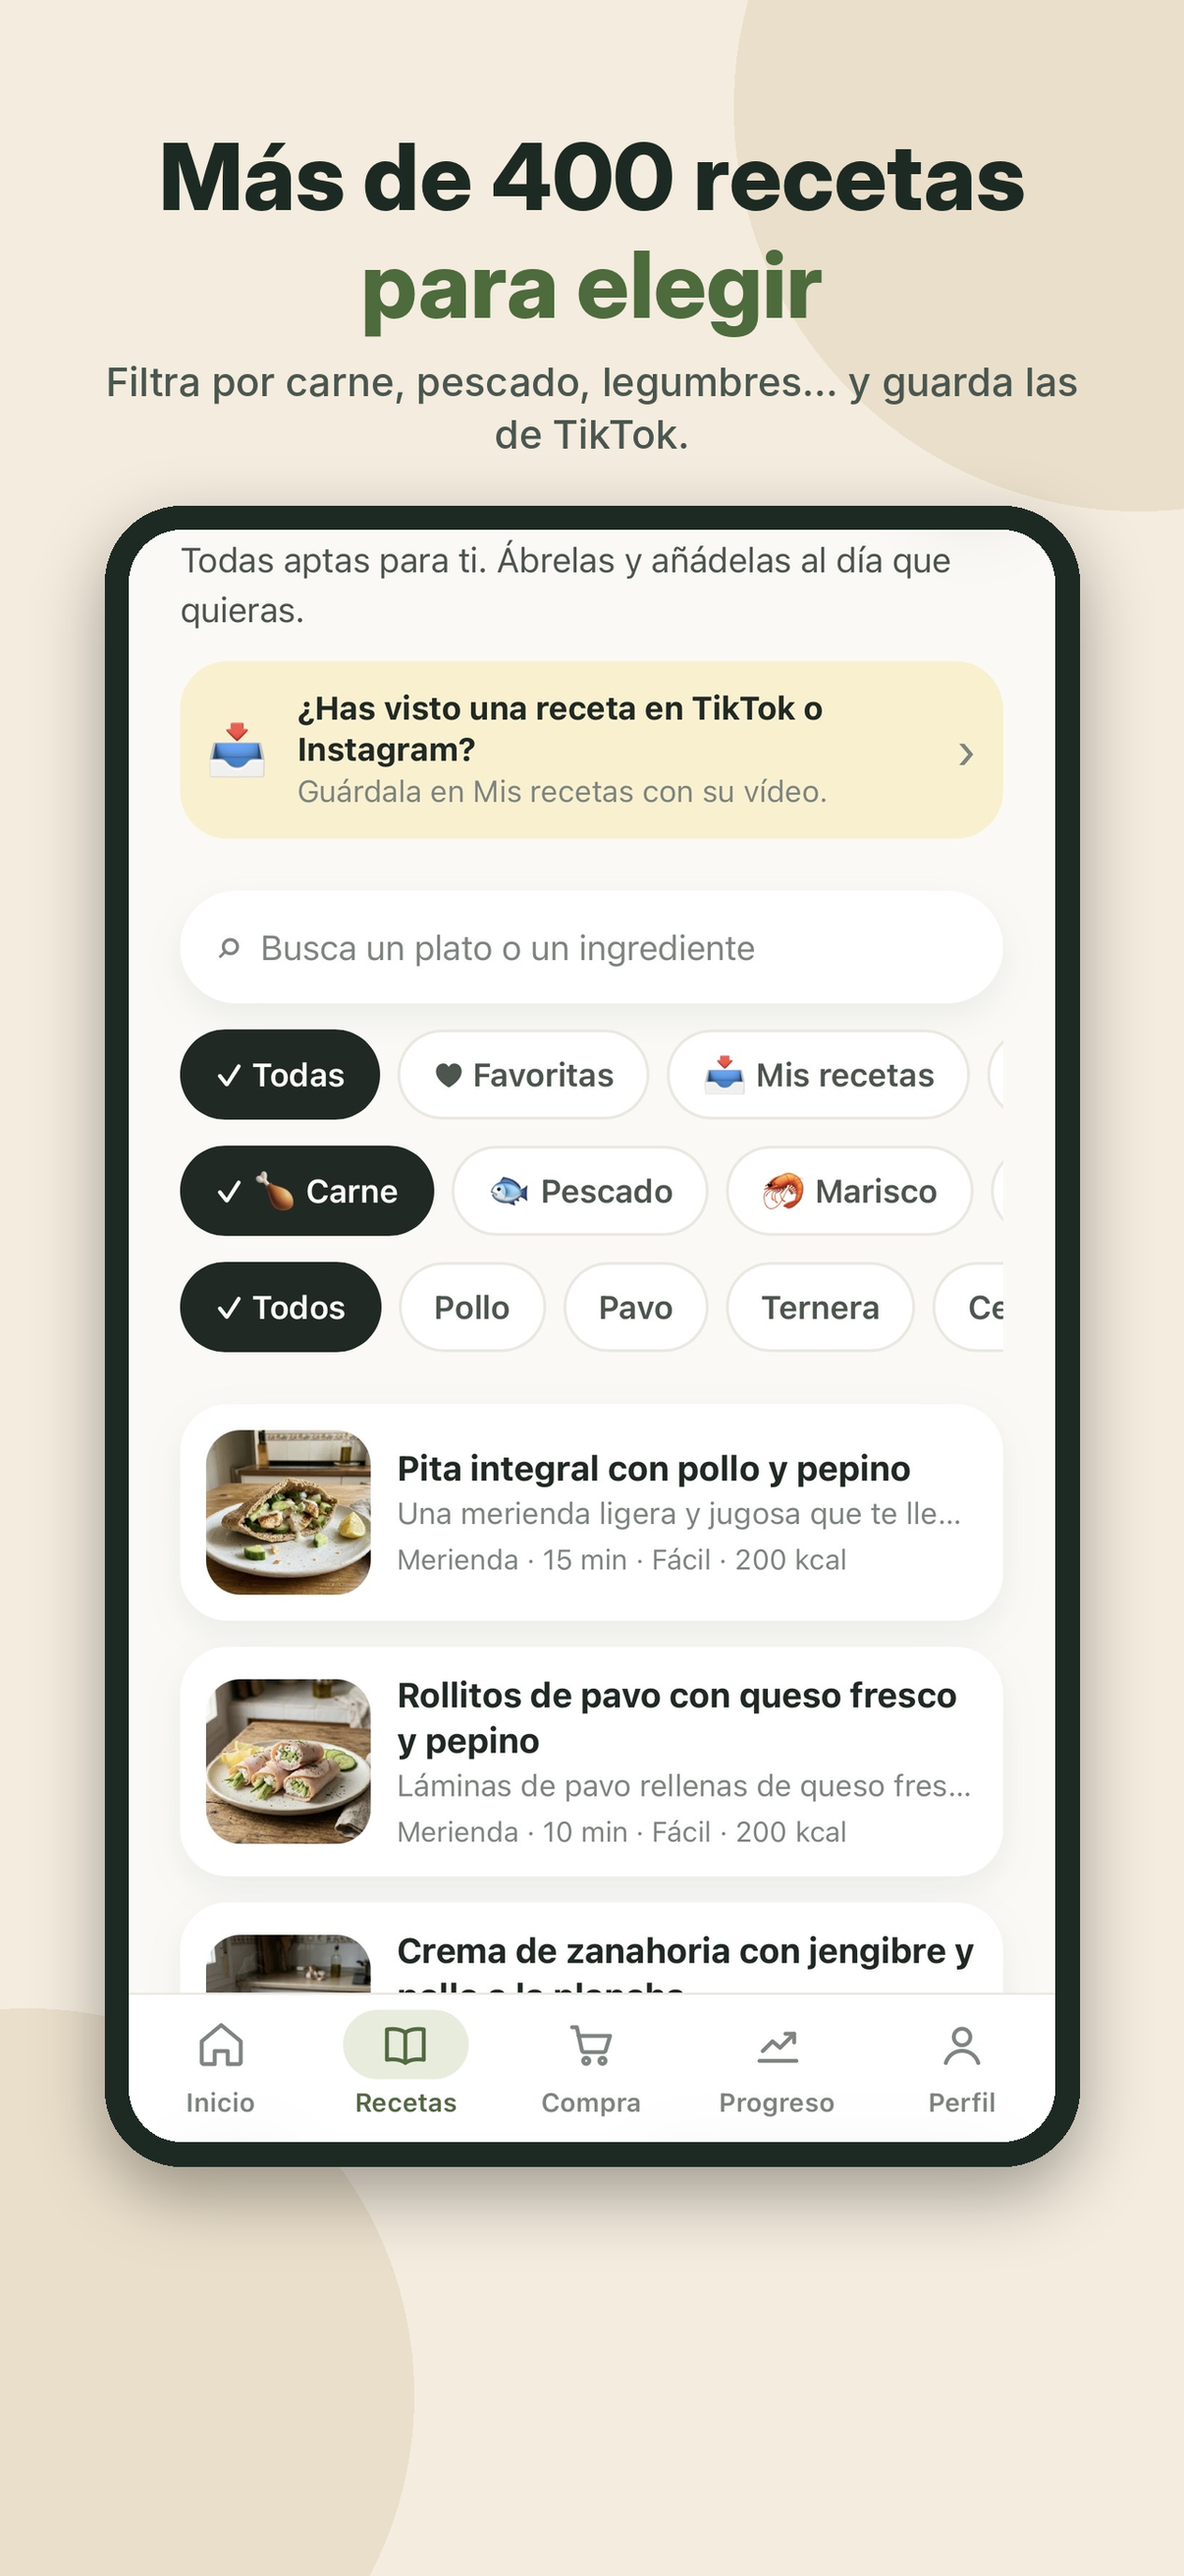
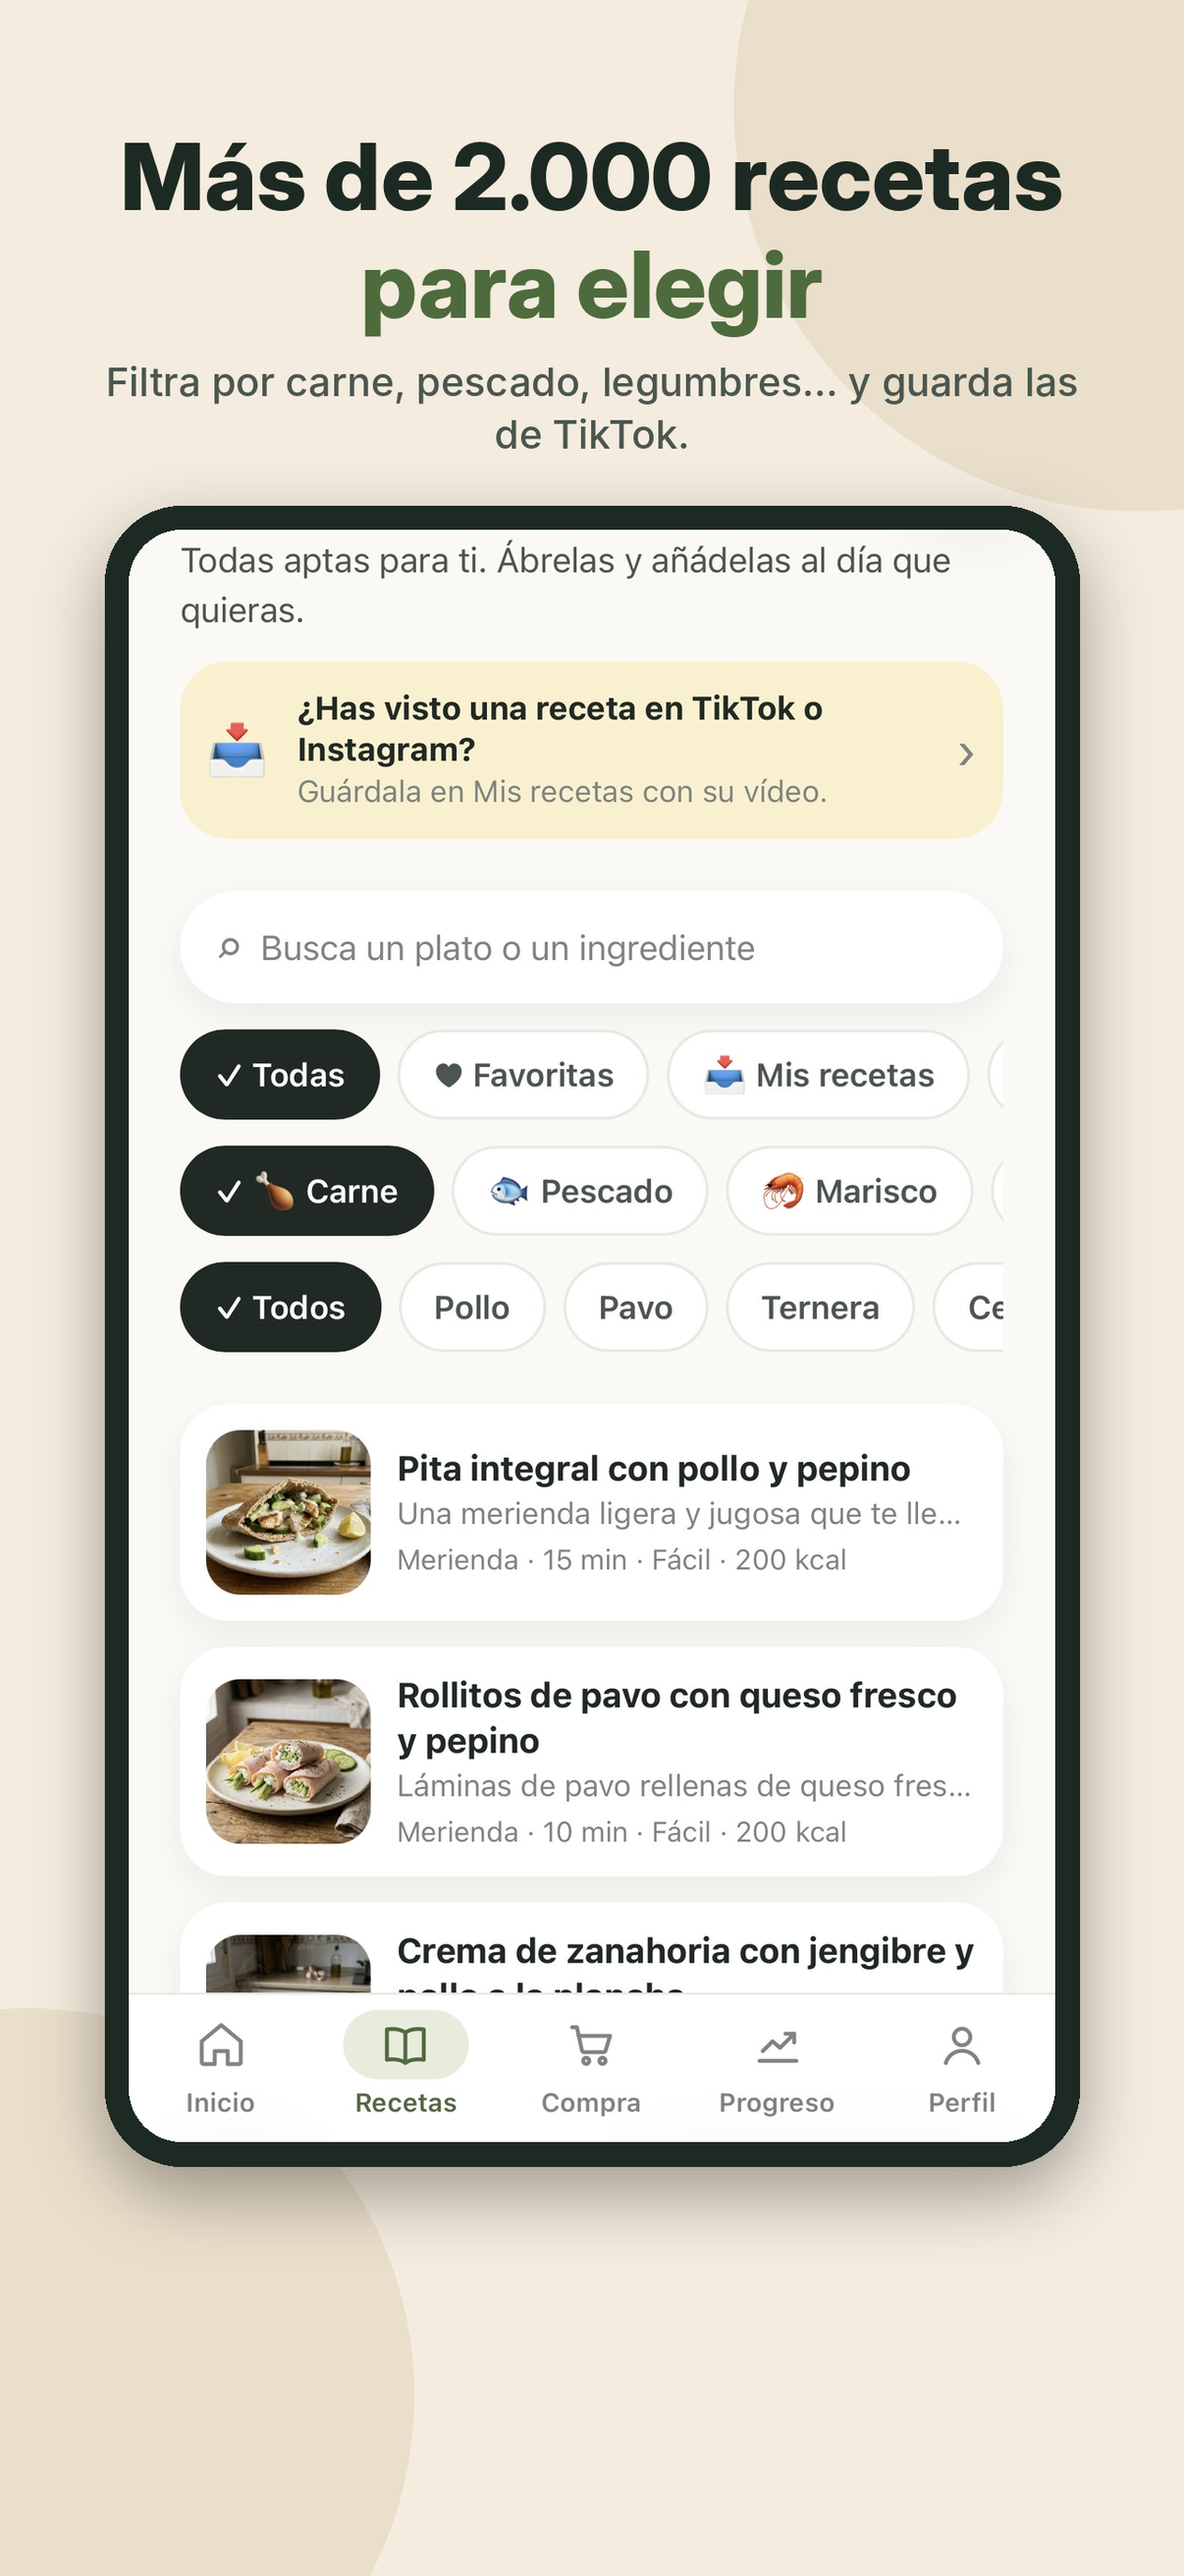
Capturas de las tiendas: «Más de 2.000 recetas»
Claude-Session: https://claude.ai/code/session_01JE61KpbSePjAfFRDRt3ruA

Changed region(s): [[0.092, 0.0309, 0.8897, 0.0927]]

diff --git a/tienda/capturas.py b/tienda/capturas.py
@@ -14,7 +14,7 @@ TEXTOS = [
     ('Recetas caseras', 'que apetecen', 'De temporada, sanas y con todos sus datos.'),
     ('Paso a paso,', 'con temporizador', 'Modo cocinar: la pantalla no se apaga.'),
     ('La compra,', 'hecha sola', 'Para todos los de casa, con las cantidades sumadas.'),
-    ('Más de 400 recetas', 'para elegir', 'Filtra por carne, pescado, legumbres… y guarda las de TikTok.'),
+    ('Más de 2.000 recetas', 'para elegir', 'Filtra por carne, pescado, legumbres… y guarda las de TikTok.'),
 ]
 FONDOS = ['#4D6B3C', '#F4ECDE', '#4D6B3C', '#F4ECDE', '#4D6B3C', '#F4ECDE']
 OSCURO = '#4D6B3C'
